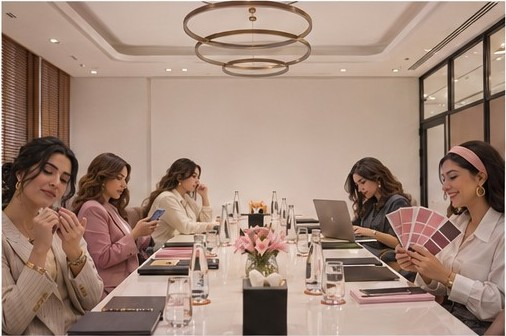
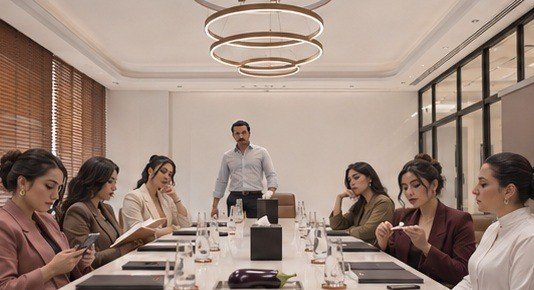
Use verified transcription and corrected shot-image mapping
All PDF sections are now independently proof-read against the page
images; no wording changes were needed. Shot images are re-matched to
their cards after two reviews (content and wardrobe continuity): shot 02
uses the door-threshold frame, shot 03 the busy-table wide, and the
cover-board key macro is cropped to drop set dressing that is not in the
real room. Also raises muted-text contrast, fixes a heading level, and
adds an intro fallback if the main script fails.

Claude-Session: https://claude.ai/code/session_011umaFEHrpRhLRxQsbwcLEJ

diff --git a/index.html b/index.html
@@ -608,9 +608,9 @@ dialog::backdrop{background:rgba(18,17,19,.72)}
     </div>
     <div class="mosaic">
       <figure>
-        <button class="zoom" type="button" data-gallery="shots" data-alias="1" data-full="assets/shots/shot-02.jpg" aria-label="تكبير صورة اللقطة 02: ماركو يدخل الكادر"><img src="assets/shots/shot-02.jpg" alt="رسم مرجعي توضيحي للقطة 02: ماركو يدخل الكادر" width="534" height="290" fetchpriority="high" decoding="async"></button>
-        <a class="tag" href="#shot-02" aria-label="انتقل إلى اللقطة 02">02</a>
-        <figcaption>ماركو يدخل الكادر</figcaption>
+        <button class="zoom" type="button" data-gallery="shots" data-alias="2" data-full="assets/shots/shot-03.jpg" aria-label="تكبير صورة اللقطة 03: كل واحدة بعالمها"><img src="assets/shots/shot-03.jpg" alt="رسم مرجعي توضيحي للقطة 03: كل واحدة بعالمها" width="534" height="290" fetchpriority="high" decoding="async"></button>
+        <a class="tag" href="#shot-03" aria-label="انتقل إلى اللقطة 03">03</a>
+        <figcaption>كل واحدة بعالمها</figcaption>
       </figure><figure>
         <button class="zoom" type="button" data-gallery="shots" data-alias="7" data-full="assets/shots/shot-08.jpg" aria-label="تكبير صورة اللقطة 08: ملاحظة الأظافر"><img src="assets/shots/shot-08.jpg" alt="رسم مرجعي توضيحي للقطة 08: ملاحظة الأظافر" width="533" height="289" loading="lazy" decoding="async"></button>
         <a class="tag" href="#shot-08" aria-label="انتقل إلى اللقطة 08">08</a>
@@ -887,7 +887,7 @@ dialog::backdrop{background:rgba(18,17,19,.72)}
           </div>
           <div class="shot__media">
             <button class="zoom" type="button" data-gallery="shots" data-full="assets/shots/shot-02.jpg" data-title="اللقطة 02 · ماركو يدخل الكادر · 1.5ث" data-sub="لقطة متوسطة من خلف الكتف، باب القاعة يفتح وماركو يدخل. طاولة الاجتماع والكراسي والبنات في العمق، كل واحدة منشغلة." data-href="#shot-02" aria-label="تكبير صورة اللقطة 02">
-              <img src="assets/shots/shot-02.jpg" alt="رسم مرجعي توضيحي للقطة 02: ماركو يدخل الكادر" width="534" height="290" loading="lazy" decoding="async">
+              <img src="assets/shots/shot-02.jpg" alt="رسم مرجعي توضيحي للقطة 02: ماركو يدخل الكادر" width="506" height="336" loading="lazy" decoding="async">
               <span class="zoom__icon"><svg viewBox="0 0 24 24" fill="none" stroke="currentColor" stroke-width="2" stroke-linecap="round" aria-hidden="true"><circle cx="11" cy="11" r="6.5"/><path d="M16 16l4.5 4.5M11 8.5v5M8.5 11h5"/></svg></span>
             </button>
           </div>
@@ -911,7 +911,7 @@ dialog::backdrop{background:rgba(18,17,19,.72)}
           </div>
           <div class="shot__media">
             <button class="zoom" type="button" data-gallery="shots" data-full="assets/shots/shot-03.jpg" data-title="اللقطة 03 · كل واحدة بعالمها · 1.5ث" data-sub="ماستر عمودي واسع من آخر الطاولة: البنات موزعات على كراسي الاجتماع، واحدة تراجع لون أظافرها، ثانية تتصفح هاتفها، وأخرى تكتب في دفتر. ماركو يعبر باتجاه رأس الطاولة." data-href="#shot-03" aria-label="تكبير صورة اللقطة 03">
-              <img src="assets/shots/shot-03.jpg" alt="رسم مرجعي توضيحي للقطة 03: كل واحدة بعالمها" width="506" height="336" loading="lazy" decoding="async">
+              <img src="assets/shots/shot-03.jpg" alt="رسم مرجعي توضيحي للقطة 03: كل واحدة بعالمها" width="534" height="290" loading="lazy" decoding="async">
               <span class="zoom__icon"><svg viewBox="0 0 24 24" fill="none" stroke="currentColor" stroke-width="2" stroke-linecap="round" aria-hidden="true"><circle cx="11" cy="11" r="6.5"/><path d="M16 16l4.5 4.5M11 8.5v5M8.5 11h5"/></svg></span>
             </button>
           </div>
@@ -959,7 +959,7 @@ dialog::backdrop{background:rgba(18,17,19,.72)}
           </div>
           <div class="shot__media">
             <button class="zoom" type="button" data-gallery="shots" data-full="assets/shots/shot-05.jpg" data-title="اللقطة 05 · شانجان · 1ث" data-sub="ماكرو للمفتاح والشعار الرسمي إن توفر. لا نستخدم شعارًا مولدًا أو مفتاحًا غير مطابق للموديل." data-href="#shot-05" aria-label="تكبير صورة اللقطة 05">
-              <img src="assets/shots/shot-05.jpg" alt="رسم مرجعي توضيحي للقطة 05: شانجان" width="503" height="335" loading="lazy" decoding="async">
+              <img src="assets/shots/shot-05.jpg" alt="رسم مرجعي توضيحي للقطة 05: شانجان" width="420" height="337" loading="lazy" decoding="async">
               <span class="zoom__icon"><svg viewBox="0 0 24 24" fill="none" stroke="currentColor" stroke-width="2" stroke-linecap="round" aria-hidden="true"><circle cx="11" cy="11" r="6.5"/><path d="M16 16l4.5 4.5M11 8.5v5M8.5 11h5"/></svg></span>
             </button>
           </div>

diff --git a/README.md b/README.md
@@ -58,5 +58,7 @@ node src/verify.cjs
 ## ملاحظات أمانة المحتوى
 
 - صور اللقطات رسومات مرجعية للتكوين واللبس والموقع فقط، وليست صوراً للممثلات أو للسيارة أو لواجهة حرير النهائية. هذا مكتوب في الصفحة.
-- في الـPDF كانت اللقطات 05/07 و06/08 و10/12 تستعمل الصورة نفسها، وبعض الصور مزاحة عن لقطاتها. في `src/content.json` يحمل كل عنصر `imageSource` (مصدر الصورة المستعملة) و`pdfImage` (الصورة التي وضعها الـPDF تحت الرقم نفسه) للمراجعة.
+- في الـPDF كانت اللقطات 05/07 و06/08 و10/12 تستعمل الصورة نفسها، والصور مزاحة عن لقطاتها في 03–06 و15–17 و23–24. أُعيد ربط كل لقطة بالصورة المطابقة لوصفها وللبس الشخصيات. المصدر `T` = صورة من صفحات الستوري بورد، و`G` = إطار من اللوحة المرجعية التسعية.
+  - اللقطات التي تغيّرت صورتها: 02←G1، 03←T02، 04←T03، 05←G3، 06←T04، 07←T05، 08←T06، 12←G5، 15←T16، 16←T15، 17←G8، 23←T24، 24←T26، 26←T17.
+  - في `src/content.json` يحمل كل عنصر `imageSource` (الصورة المستعملة) و`pdfImage` (ما وضعه الـPDF تحت الرقم نفسه) للمراجعة.
 - `[السنة]` في نص الشاشة الختامي تبقى خانة ظاهرة حتى تُعتمد.
